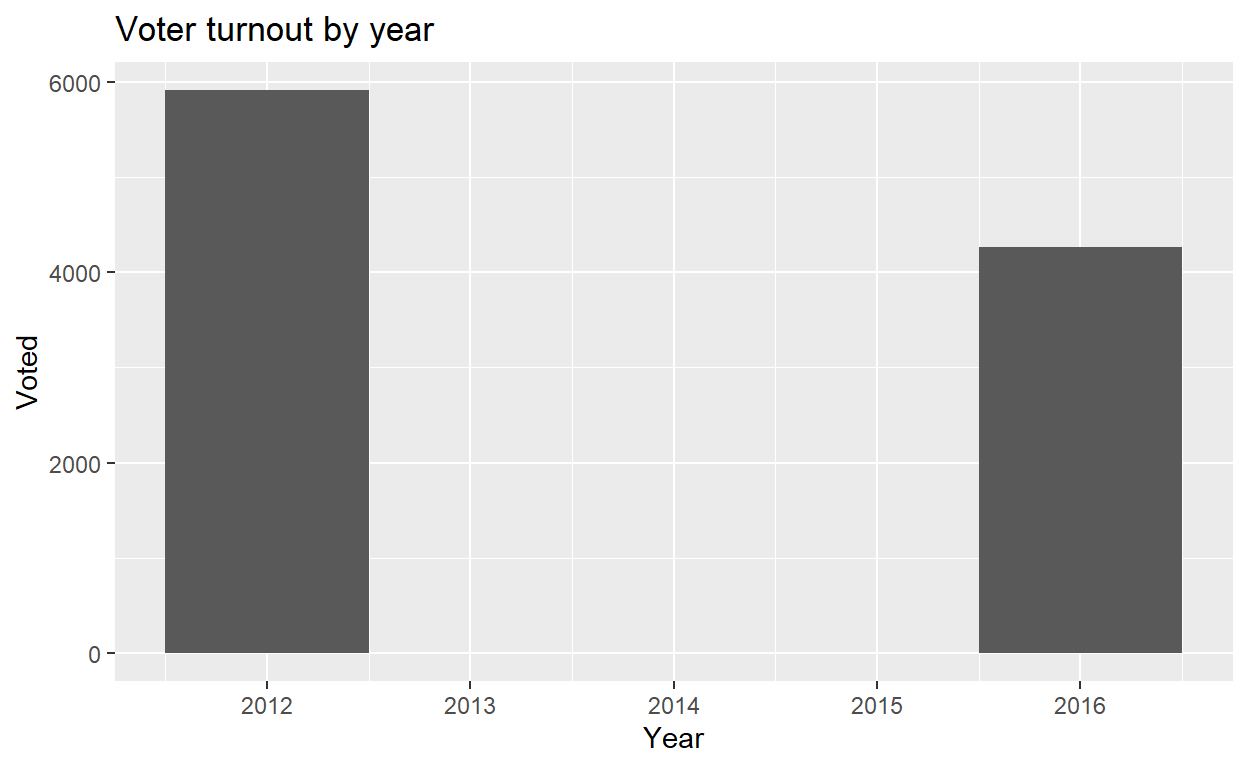
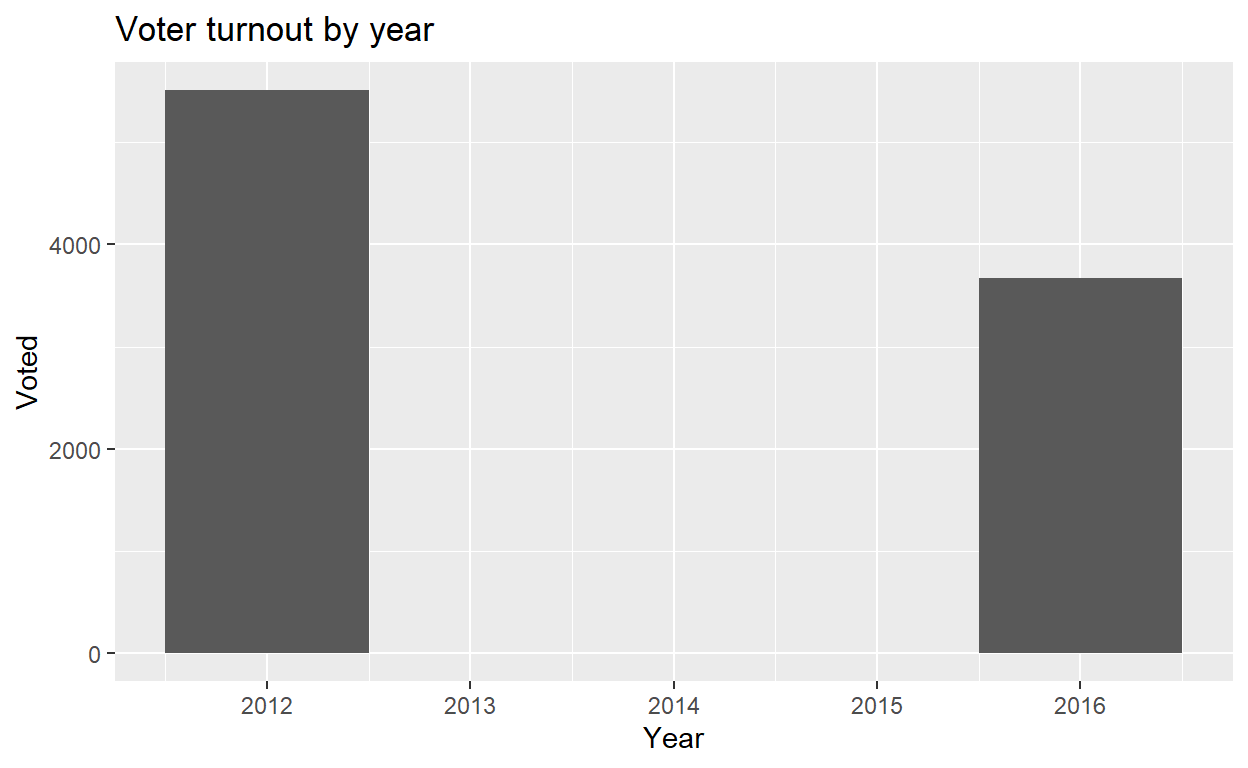
milestone 4

diff --git a/index.html b/index.html
@@ -115,7 +115,7 @@ code span.wa { color: #5e5e5e; font-style: italic; } /* Warning */
   <!--/radix_placeholder_rmarkdown_metadata-->
   
   <script type="text/json" id="radix-resource-manifest">
-  {"type":"character","attributes":{},"value":["anes_timeseries.csv","index_files/anchor-4.2.2/anchor.min.js","index_files/bowser-1.9.3/bowser.min.js","index_files/distill-2.2.21/template.v2.js","index_files/figure-html5/unnamed-chunk-5-1.png","index_files/header-attrs-2.17/header-attrs.js","index_files/header-attrs-2.24/header-attrs.js","index_files/jquery-3.6.0/jquery-3.6.0.js","index_files/jquery-3.6.0/jquery-3.6.0.min.js","index_files/jquery-3.6.0/jquery-3.6.0.min.map","index_files/popper-2.6.0/popper.min.js","index_files/tippy-6.2.7/tippy-bundle.umd.min.js","index_files/tippy-6.2.7/tippy-light-border.css","index_files/tippy-6.2.7/tippy.css","index_files/tippy-6.2.7/tippy.umd.min.js","index_files/webcomponents-2.0.0/webcomponents.js"]}
+  {"type":"character","attributes":{},"value":["anes_timeseries.csv","index_files/anchor-4.2.2/anchor.min.js","index_files/bowser-1.9.3/bowser.min.js","index_files/distill-2.2.21/template.v2.js","index_files/figure-html5/unnamed-chunk-5-1.png","index_files/figure-html5/unnamed-chunk-6-1.png","index_files/header-attrs-2.17/header-attrs.js","index_files/header-attrs-2.24/header-attrs.js","index_files/header-attrs-2.25/header-attrs.js","index_files/jquery-3.6.0/jquery-3.6.0.js","index_files/jquery-3.6.0/jquery-3.6.0.min.js","index_files/jquery-3.6.0/jquery-3.6.0.min.map","index_files/popper-2.6.0/popper.min.js","index_files/tippy-6.2.7/tippy-bundle.umd.min.js","index_files/tippy-6.2.7/tippy-light-border.css","index_files/tippy-6.2.7/tippy.css","index_files/tippy-6.2.7/tippy.umd.min.js","index_files/webcomponents-2.0.0/webcomponents.js"]}
   </script>
   <!--radix_placeholder_navigation_in_header-->
   <!--/radix_placeholder_navigation_in_header-->
@@ -1547,6 +1547,7 @@ code span.wa { color: #5e5e5e; font-style: italic; } /* Warning */
 <p>I am interested in exploring data related to U.S. elections, including topics such as online misinformation, voting demographics, and voter turnout. I’m especially interested in examining voter turnout in states which have passed restrictive voting laws in the aftermath of the 2013 Shelby County v. Holder Supreme Court case, which found Section 4 of the Voting Rights Act unconstitutional, allowing states to pass voting laws without being subject to federal review. Restrictive laws include restrictions on mail voting and unreasonably strict voter ID requirements, which disproportionately impact voters of color. These sorts of laws have been adopted by 29 states to date (<a href="https://www.brennancenter.org/our-work/analysis-opinion/states-have-added-nearly-100-restrictive-laws-scotus-gutted-voting-rights" class="uri">https://www.brennancenter.org/our-work/analysis-opinion/states-have-added-nearly-100-restrictive-laws-scotus-gutted-voting-rights</a>).</p>
 <h2 id="proposal">Proposal</h2>
 <p>Did restrictive state voting laws after Shelby County vs. Holder (2013) impact voter turnout in the 2016 general election? In this project, I will examine the extent to which restrictive voting laws passed after the Shelby decision impacted voter turnout in applicable states. I hypothesize that voter turnout decreased from 2012 to 2016 in states which passed stricter voter ID and mail-in ballot laws, especially for voters of color. I’ve chosen a data set with election data from 1948-2020, though I’ll only be looking at general election data from 2012 and 2016, since I want to compare across time. The explanatory variable of interest is whether a state passed restrictive voting law(s) or not. I will need to filter to specific states from the data based on information from the Brennan Center (see above). My outcome variable is voter turnout in a given state. If I observe lower voter turnout in 2016 compared to 2012 in states which passed restrictive voting laws, this would provide support for my hypothesis. If I observe higher or similar voter turnout, this would provide evidence against my hypothesis.</p>
+<h2 id="milestone-2">Milestone 2</h2>
 <div class="layout-chunk" data-layout="l-body">
 <div class="sourceCode">
 <pre class="sourceCode r"><code class="sourceCode r"><span><span class='kw'><a href='https://rdrr.io/r/base/library.html'>library</a></span><span class='op'>(</span><span class='va'><a href='https://tidyverse.tidyverse.org'>tidyverse</a></span><span class='op'>)</span></span>
@@ -1554,6 +1555,7 @@ code span.wa { color: #5e5e5e; font-style: italic; } /* Warning */
 <span><span class='va'>elections</span> <span class='op'>&lt;-</span> <span class='fu'><a href='https://readr.tidyverse.org/reference/read_delim.html'>read_csv</a></span><span class='op'>(</span><span class='st'>"anes_timeseries.csv"</span><span class='op'>)</span></span></code></pre>
 </div>
 </div>
+<h2 id="milestone-3">Milestone 3</h2>
 <div class="layout-chunk" data-layout="l-body">
 <div class="sourceCode">
 <pre class="sourceCode r"><code class="sourceCode r"><span><span class='va'>elections</span> <span class='op'>&lt;-</span> <span class='va'>elections</span> <span class='op'>|&gt;</span></span>
@@ -1638,13 +1640,34 @@ code span.wa { color: #5e5e5e; font-style: italic; } /* Warning */
 <div class="sourceCode">
 <pre class="sourceCode r"><code class="sourceCode r"><span><span class='kw'><a href='https://rdrr.io/r/base/library.html'>library</a></span><span class='op'>(</span><span class='va'><a href='https://ggplot2.tidyverse.org'>ggplot2</a></span><span class='op'>)</span></span>
 <span></span>
+<span><span class='va'>elections</span> <span class='op'>&lt;-</span> <span class='va'>elections</span> <span class='op'>|&gt;</span></span>
+<span>  <span class='fu'><a href='https://dplyr.tidyverse.org/reference/filter.html'>filter</a></span><span class='op'>(</span><span class='va'>voted</span> <span class='op'>==</span> <span class='fl'>2</span> <span class='op'>|</span> <span class='va'>voted</span> <span class='op'>==</span> <span class='fl'>1</span><span class='op'>)</span> <span class='op'>|&gt;</span></span>
+<span>  <span class='fu'><a href='https://dplyr.tidyverse.org/reference/mutate.html'>mutate</a></span><span class='op'>(</span>voted_or_not <span class='op'>=</span> <span class='fu'><a href='https://dplyr.tidyverse.org/reference/if_else.html'>if_else</a></span><span class='op'>(</span><span class='va'>voted</span> <span class='op'>==</span> <span class='fl'>2</span>, <span class='st'>"yes"</span>, <span class='st'>"no"</span><span class='op'>)</span><span class='op'>)</span></span>
+<span></span>
 <span><span class='va'>elections</span> <span class='op'>|&gt;</span></span>
-<span>  <span class='fu'><a href='https://dplyr.tidyverse.org/reference/mutate.html'>mutate</a></span><span class='op'>(</span>voted <span class='op'>=</span> <span class='fu'><a href='https://dplyr.tidyverse.org/reference/if_else.html'>if_else</a></span><span class='op'>(</span><span class='va'>voted</span> <span class='op'>==</span> <span class='fl'>2</span>, <span class='st'>"yes"</span>, <span class='st'>"no"</span><span class='op'>)</span><span class='op'>)</span> <span class='op'>|&gt;</span></span>
 <span>  <span class='fu'><a href='https://ggplot2.tidyverse.org/reference/ggplot.html'>ggplot</a></span><span class='op'>(</span>mapping <span class='op'>=</span> <span class='fu'><a href='https://ggplot2.tidyverse.org/reference/aes.html'>aes</a></span><span class='op'>(</span>x <span class='op'>=</span> <span class='va'>year</span><span class='op'>)</span><span class='op'>)</span> <span class='op'>+</span></span>
 <span>  <span class='fu'><a href='https://ggplot2.tidyverse.org/reference/geom_histogram.html'>geom_histogram</a></span><span class='op'>(</span>binwidth <span class='op'>=</span> <span class='fl'>1</span><span class='op'>)</span> <span class='op'>+</span></span>
 <span>  <span class='fu'><a href='https://ggplot2.tidyverse.org/reference/labs.html'>labs</a></span><span class='op'>(</span>x <span class='op'>=</span> <span class='st'>"Year"</span>, y <span class='op'>=</span> <span class='st'>"Voted"</span>, title <span class='op'>=</span> <span class='st'>"Voter turnout by year"</span><span class='op'>)</span></span></code></pre>
 </div>
 <p><img src="index_files/figure-html5/unnamed-chunk-5-1.png" width="624" /></p>
+</div>
+<h2 id="milestone-4">Milestone 4</h2>
+<p>States previously subject to preclearance that enacted restrictive voting laws after Shelby County vs. Holder: South Dakota, New York, North Carolina, South Carolina, Georgia, Florida, Alabama, Mississippi, Louisiana, Texas, and Arizona.</p>
+<div class="layout-chunk" data-layout="l-body">
+<div class="sourceCode">
+<pre class="sourceCode r"><code class="sourceCode r"><span><span class='kw'><a href='https://rdrr.io/r/base/library.html'>library</a></span><span class='op'>(</span><span class='va'><a href='https://ggplot2.tidyverse.org'>ggplot2</a></span><span class='op'>)</span></span>
+<span></span>
+<span><span class='va'>elections</span> <span class='op'>&lt;-</span> <span class='va'>elections</span> <span class='op'>|&gt;</span></span>
+<span>  <span class='fu'><a href='https://dplyr.tidyverse.org/reference/mutate.html'>mutate</a></span><span class='op'>(</span>new_laws <span class='op'>=</span> <span class='fu'><a href='https://dplyr.tidyverse.org/reference/if_else.html'>if_else</a></span><span class='op'>(</span><span class='va'>state_fips</span> <span class='op'>==</span> <span class='fu'><a href='https://rdrr.io/r/base/c.html'>c</a></span><span class='op'>(</span><span class='fl'>1</span>, <span class='fl'>4</span>, <span class='fl'>12</span>, <span class='fl'>13</span>, <span class='fl'>22</span>, <span class='fl'>28</span>, <span class='fl'>36</span>, <span class='fl'>37</span>, <span class='fl'>45</span>, <span class='fl'>46</span>, <span class='fl'>48</span><span class='op'>)</span>, <span class='st'>"Restrictive laws"</span>, <span class='st'>"No new laws"</span><span class='op'>)</span><span class='op'>)</span></span>
+<span></span>
+<span><span class='va'>elections</span> <span class='op'>|&gt;</span></span>
+<span>  <span class='fu'><a href='https://dplyr.tidyverse.org/reference/mutate.html'>mutate</a></span><span class='op'>(</span>vote <span class='op'>=</span> <span class='fu'><a href='https://dplyr.tidyverse.org/reference/if_else.html'>if_else</a></span><span class='op'>(</span><span class='va'>voted_or_not</span> <span class='op'>==</span> <span class='st'>"yes"</span>, <span class='fl'>1</span>, <span class='fl'>0</span><span class='op'>)</span>,</span>
+<span>         turnout <span class='op'>=</span> <span class='fu'><a href='https://rdrr.io/r/base/mean.html'>mean</a></span><span class='op'>(</span><span class='va'>vote</span><span class='op'>)</span><span class='op'>)</span> <span class='op'>|&gt;</span></span>
+<span>  <span class='fu'><a href='https://ggplot2.tidyverse.org/reference/ggplot.html'>ggplot</a></span><span class='op'>(</span>mapping <span class='op'>=</span> <span class='fu'><a href='https://ggplot2.tidyverse.org/reference/aes.html'>aes</a></span><span class='op'>(</span>x <span class='op'>=</span> <span class='va'>new_laws</span><span class='op'>)</span><span class='op'>)</span> <span class='op'>+</span></span>
+<span>  <span class='fu'><a href='https://ggplot2.tidyverse.org/reference/geom_bar.html'>geom_col</a></span><span class='op'>(</span>mapping <span class='op'>=</span> <span class='fu'><a href='https://ggplot2.tidyverse.org/reference/aes.html'>aes</a></span><span class='op'>(</span>y <span class='op'>=</span> <span class='va'>turnout</span><span class='op'>)</span><span class='op'>)</span> <span class='op'>+</span></span>
+<span>  <span class='fu'><a href='https://ggplot2.tidyverse.org/reference/labs.html'>labs</a></span><span class='op'>(</span>x <span class='op'>=</span> <span class='st'>"Whether state passed new restrictive laws"</span>, y <span class='op'>=</span> <span class='st'>"Turnout proportion"</span>, title <span class='op'>=</span> <span class='st'>"Turnout in states that passed restrictive laws vs. states that didn't"</span><span class='op'>)</span></span></code></pre>
+</div>
+<p><img src="index_files/figure-html5/unnamed-chunk-6-1.png" width="624" /></p>
 </div>
 <div class="sourceCode" id="cb4"><pre class="sourceCode r distill-force-highlighting-css"><code class="sourceCode r"></code></pre></div>
 <!--radix_placeholder_article_footer-->
